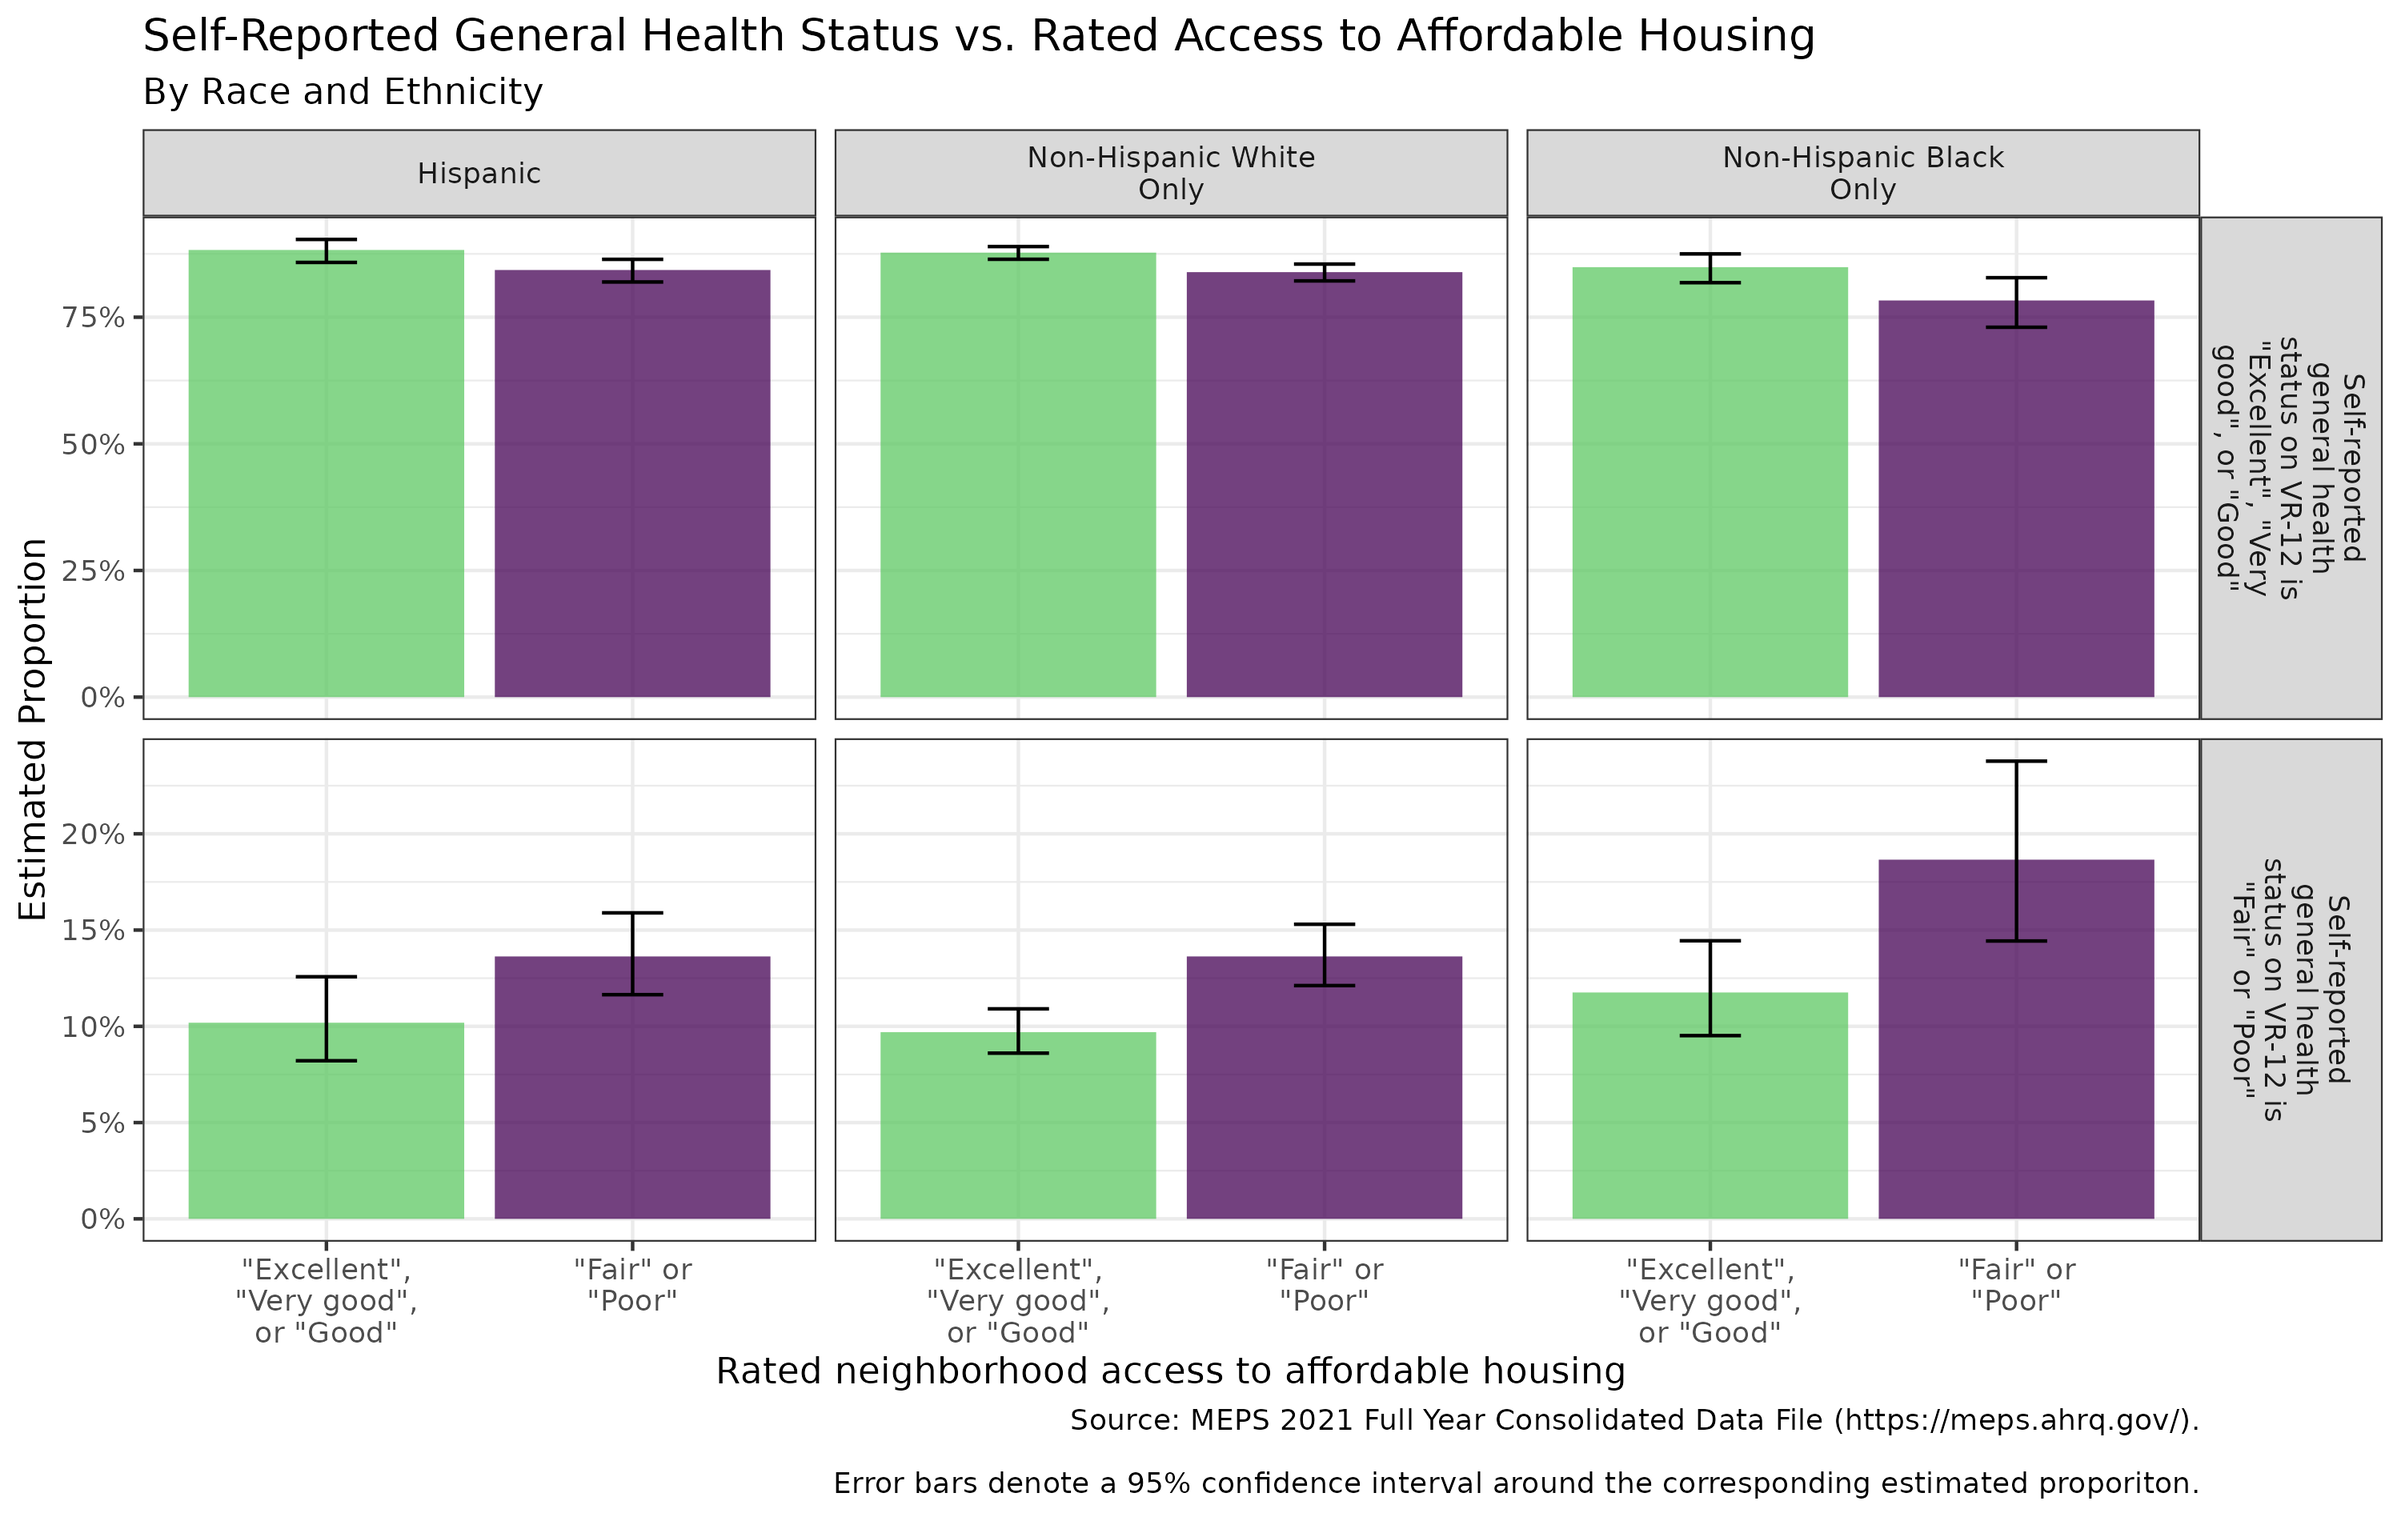
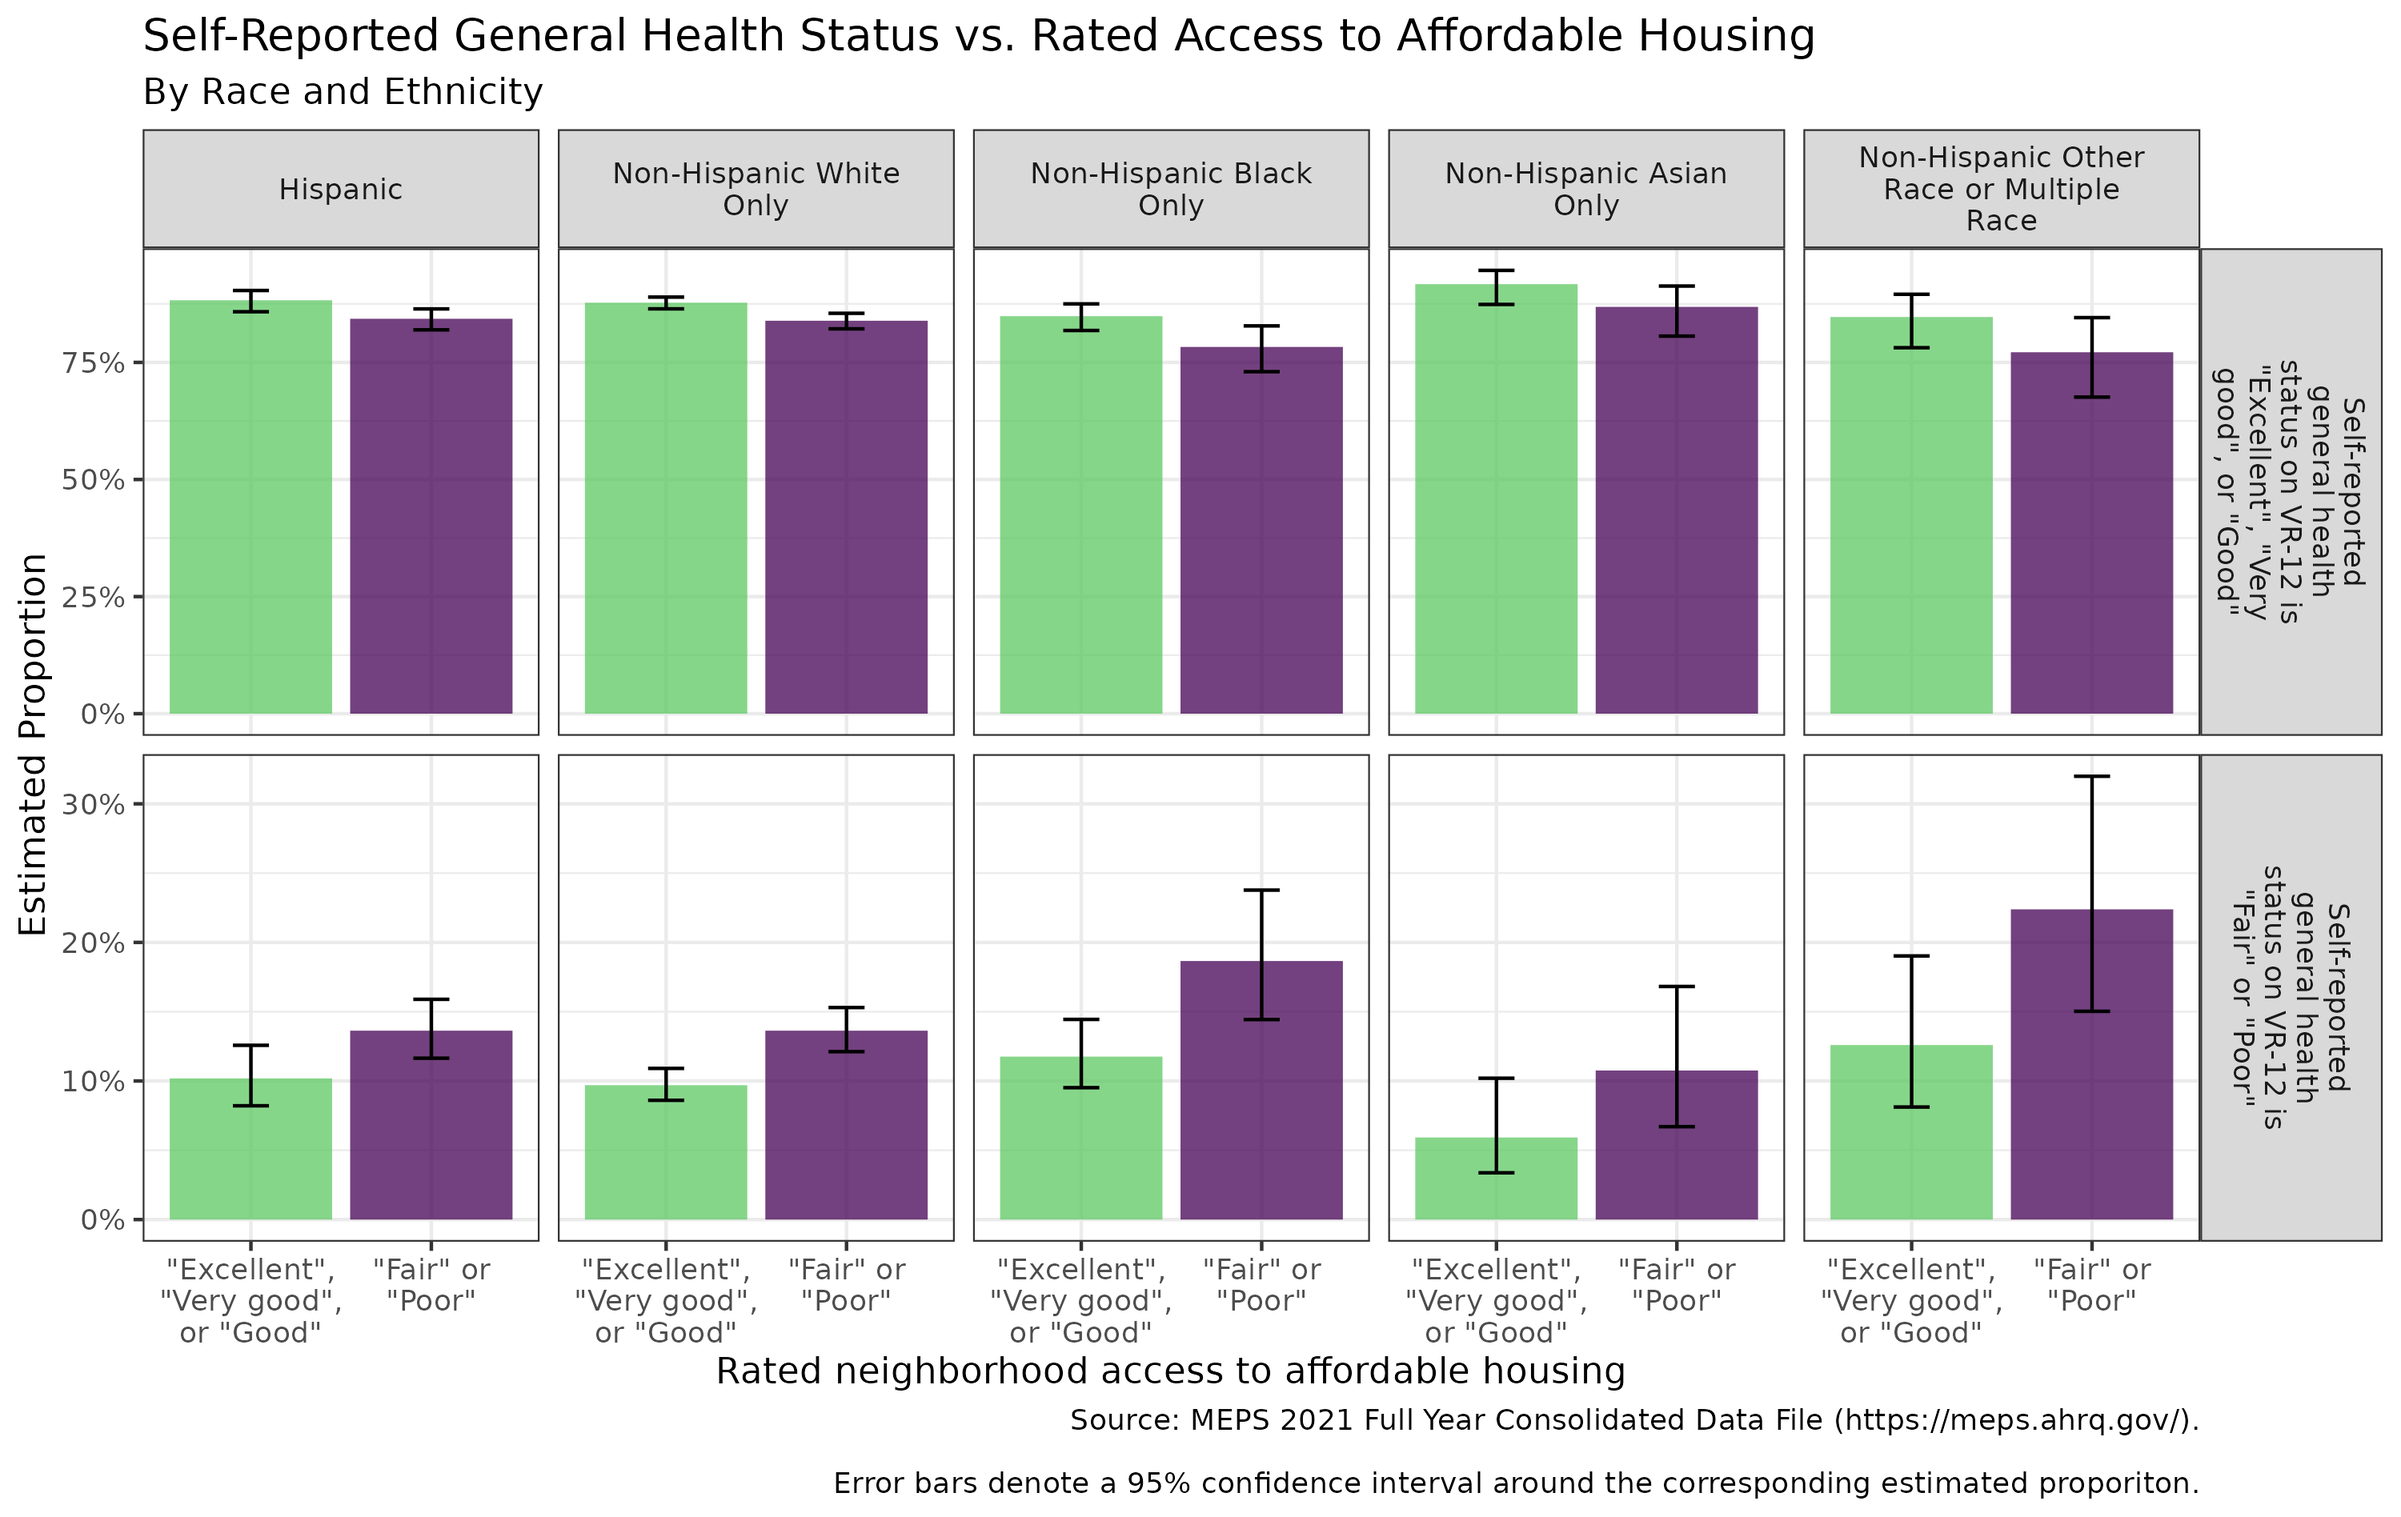
final commit

diff --git a/README.md b/README.md
@@ -2,7 +2,7 @@
 
 This repository contains example code demonstrating how to use the [Medical Expenditure Panel Survey](https://meps.ahrq.gov/mepsweb/) PUF (Public Use Files) for the 2021 survey year to construct estimates (with confidence intervals!) around key health outcomes measures for the US population and the relationship between these outcomes measures and key Social Determinants of Health (SDoH) factors which have been shown in the literature to be most strongly associated with healthcare outcomes and costs.
 
-Due to sample sizes which are insufficient (per [MEPS guidelines](https://meps.ahrq.gov/survey_comp/precision_guidelines.shtml)) for producing estimates, demographic breakouts for populations designated `Non-Hispanic Asian` and `Non-Hispanic Other Race or Multiple Race` are not included in these visuals. Sample size totals for these exhibits are available in the following tables:
+Due to sample sizes which are insufficient (n < 60, per [MEPS precision standards guidelines](https://meps.ahrq.gov/survey_comp/precision_guidelines.shtml)) for producing estimates, demographic breakouts for populations designated `Non-Hispanic Asian` and `Non-Hispanic Other Race or Multiple Race` are not included in all visuals. Sample size totals for these exhibits are available in the following tables:
 
 * [HS Graduation](outputs/data/sample_size_check_hsgrad.csv)
 * [Transit Availability](outputs/data/sample_size_check_transit.csv)
